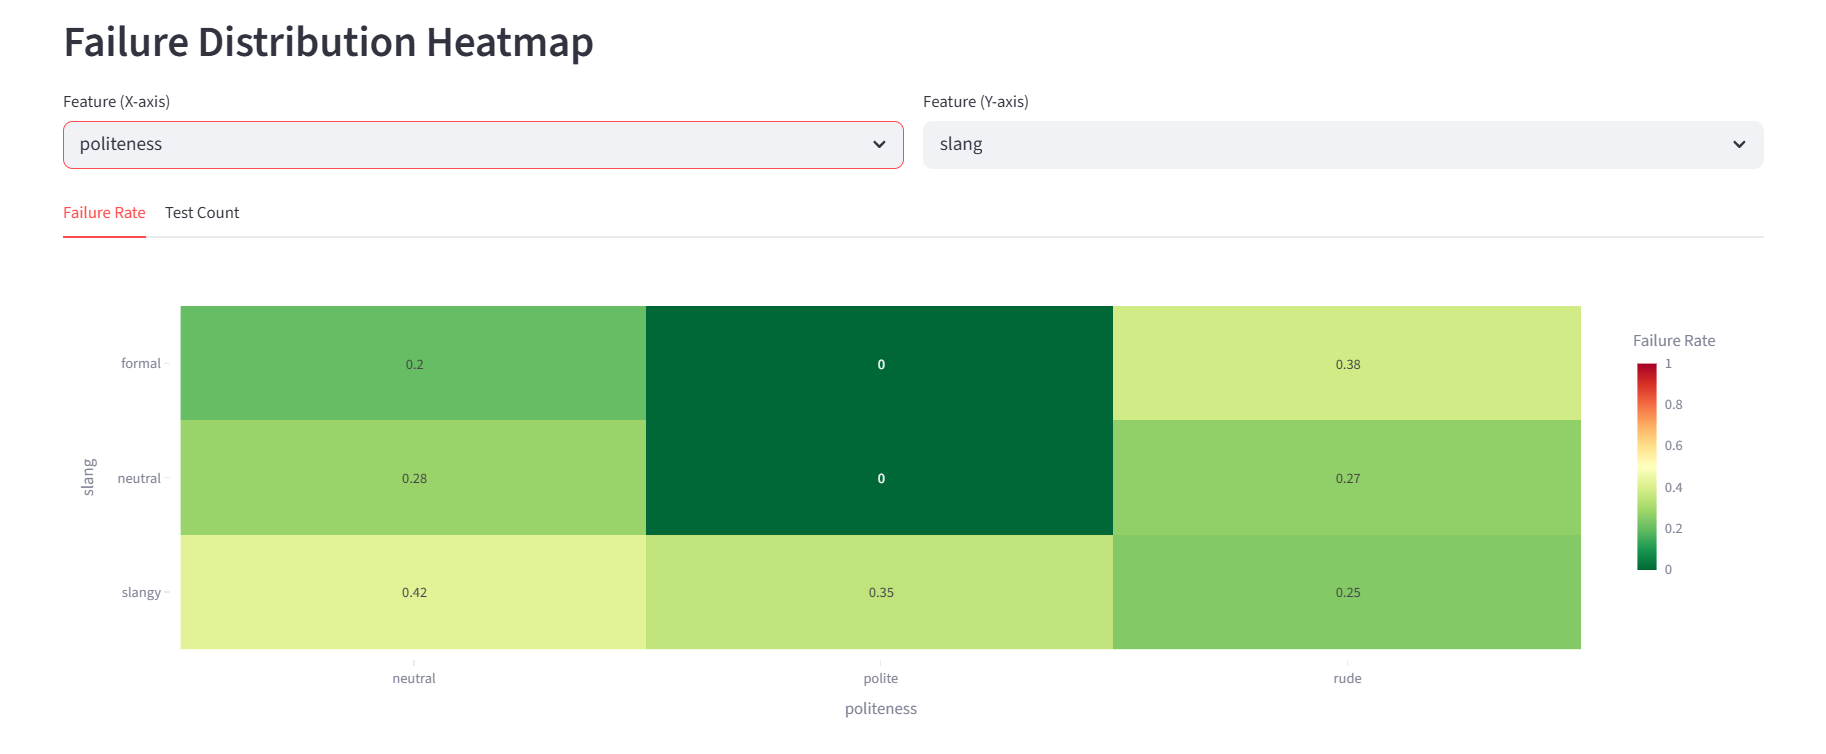
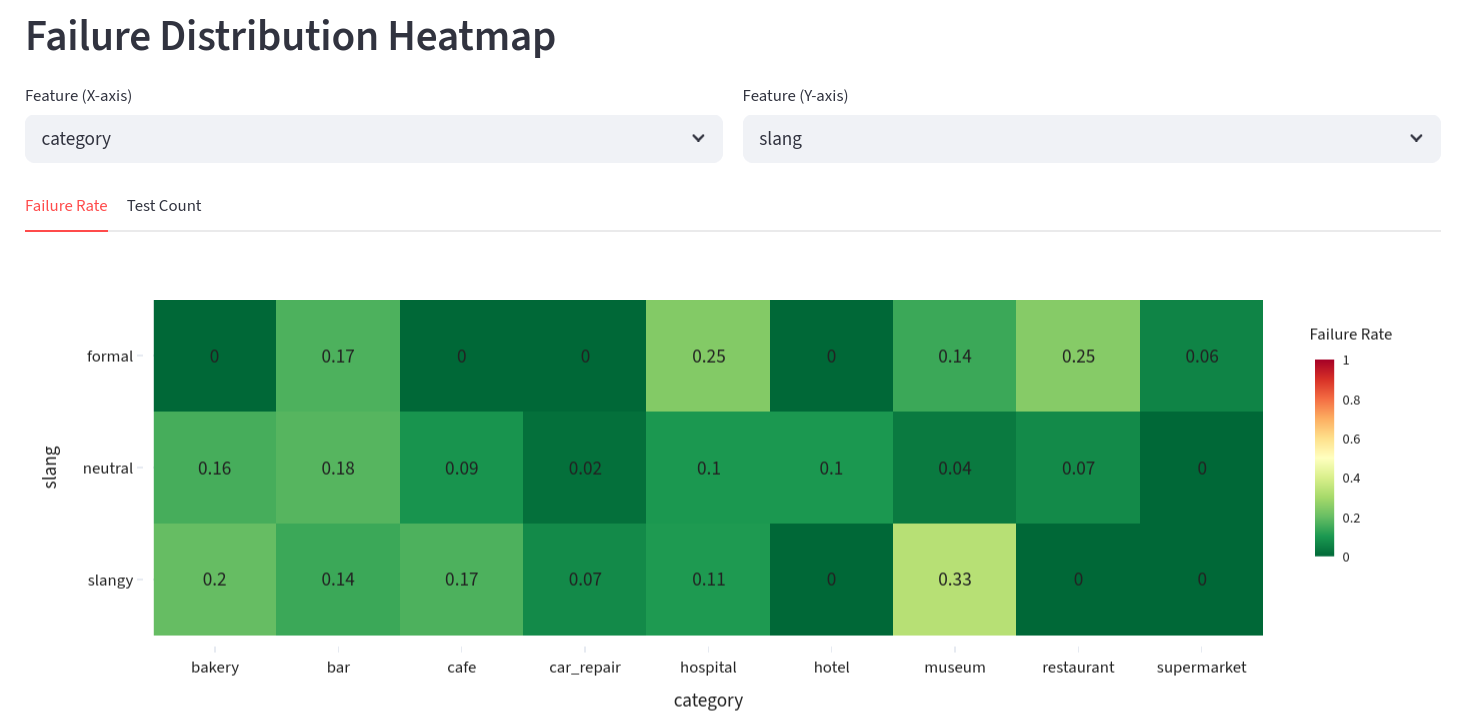
Update readme.

diff --git a/dashboard.py b/dashboard.py
@@ -77,11 +77,15 @@ def build_heatmap(df: pd.DataFrame, feat_x: str, feat_y: str):
     fig.update_traces(
         text=np.round(pivot.values, 2),
         texttemplate="%{text}",
-        textfont_size=12,
+        textfont_size=16,
+        textfont_color="#222222",
     )
     fig.update_layout(
         margin=dict(l=20, r=20, t=40, b=20),
         height=max(400, len(pivot.index) * 40),
+        xaxis=dict(title_font=dict(size=16, color="#222222"), tickfont=dict(size=14, color="#222222")),
+        yaxis=dict(title_font=dict(size=16, color="#222222"), tickfont=dict(size=14, color="#222222")),
+        coloraxis_colorbar=dict(title_font=dict(size=14, color="#222222"), tickfont=dict(size=12, color="#222222")),
     )
     return fig
 
@@ -106,11 +110,15 @@ def build_count_heatmap(df: pd.DataFrame, feat_x: str, feat_y: str):
     fig.update_traces(
         text=pivot.values,
         texttemplate="%{text}",
-        textfont_size=12,
+        textfont_size=16,
+        textfont_color="#222222",
     )
     fig.update_layout(
         margin=dict(l=20, r=20, t=40, b=20),
         height=max(400, len(pivot.index) * 40),
+        xaxis=dict(title_font=dict(size=16, color="#222222"), tickfont=dict(size=14, color="#222222")),
+        yaxis=dict(title_font=dict(size=16, color="#222222"), tickfont=dict(size=14, color="#222222")),
+        coloraxis_colorbar=dict(title_font=dict(size=14, color="#222222"), tickfont=dict(size=12, color="#222222")),
     )
     return fig
 
@@ -127,16 +135,14 @@ def main():
     st.set_page_config(page_title="STELLAR Results Dashboard", layout="wide")
     st.title("STELLAR Results Dashboard")
 
+    default_root = Path("./result_examples").resolve()
     root_folder = st.text_input(
         "Results root folder",
-        value="",
-        help="Path to a results directory. The latest subfolder containing all_utterances.json will be used.",
+        value=str(default_root),
+        help="Path to a results directory. The dashboard will auto-detect all experiment folders containing all_utterances.json.",
     )
-    if not root_folder:
-        st.info("Enter a results folder path to begin.")
-        st.stop()
 
-    root_path = Path(root_folder)
+    root_path = Path(root_folder).expanduser().resolve()
     if not root_path.is_dir():
         st.error(f"Not a valid directory: {root_path}")
         st.stop()

diff --git a/README.md b/README.md
@@ -81,12 +81,6 @@ What each block does:
 
 It builds upon the <a href="https://www.github.com/opensbt">OpenSBT</a> infrastructure and uses Pymoo (v0.6.1.5) for search algorithms.
 
-## Demo
-
-<p align="center">
-  <img src="./figures/stellar-demo.gif" alt="STELLAR demo" width="900">
-</p>
-
 STELLAR helps to answer:
 
 - Which user inputs are most likely to break my LLM application?
